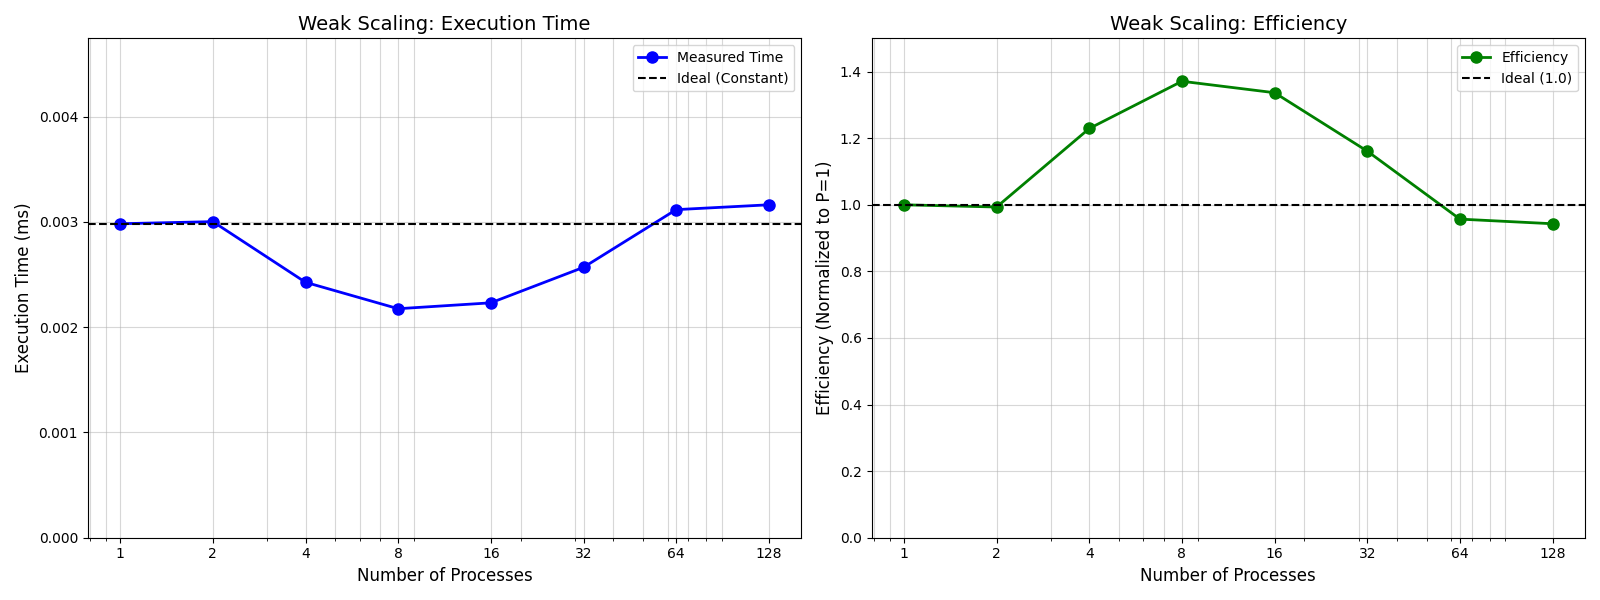
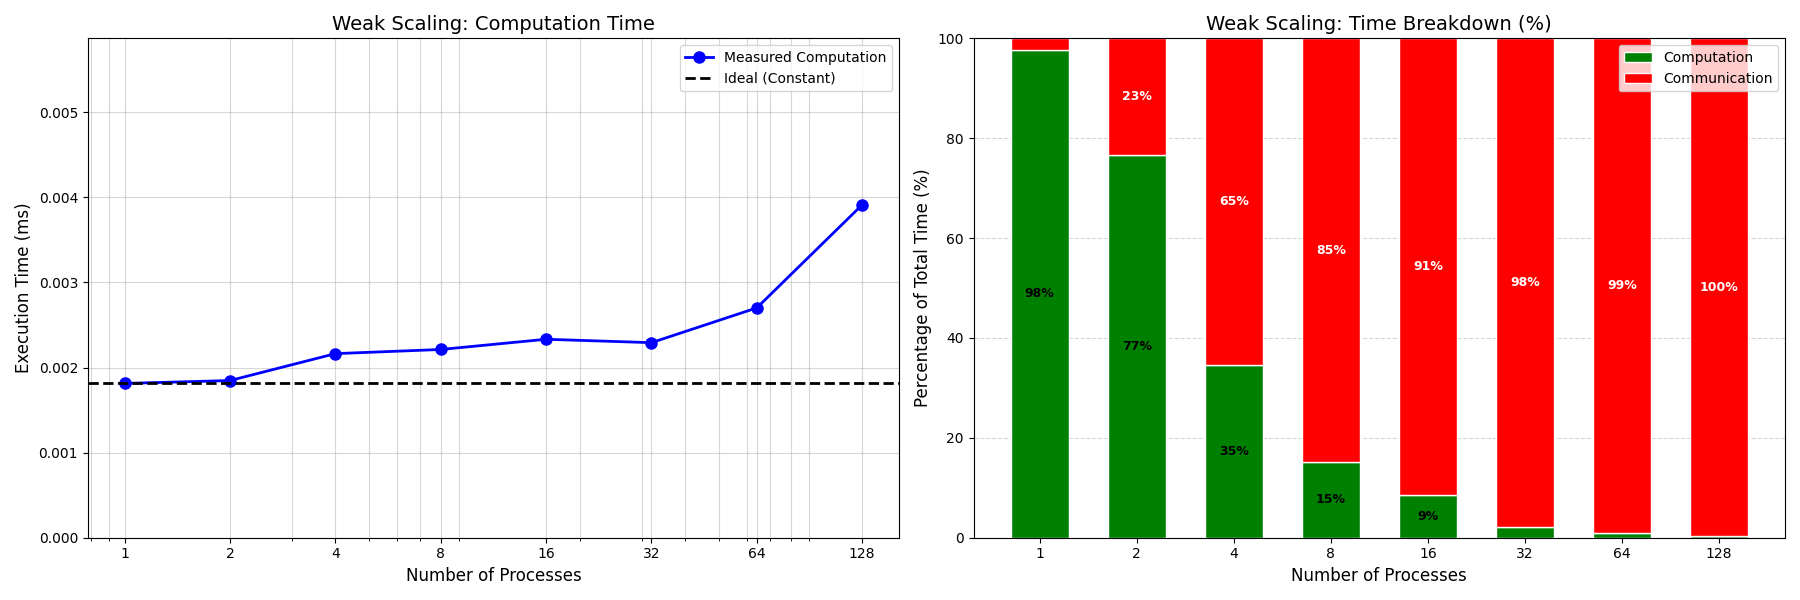
Modified scripts

diff --git a/D2/scripts/plots_weak_scaling.py b/D2/scripts/plots_weak_scaling.py
@@ -1,9 +1,8 @@
-#  python3 .\D2\scripts\plots_weak_scaling.py
-
 import pandas as pd
 import matplotlib.pyplot as plt
 import os
-import matplotlib.ticker as ticker 
+import matplotlib.ticker as ticker
+import numpy as np
 
 script_dir = os.path.dirname(os.path.abspath(__file__))
 parent_dir = os.path.dirname(script_dir)
@@ -30,46 +29,118 @@ except Exception as e:
 
 df.columns = df.columns.str.strip()
 df['Processes'] = pd.to_numeric(df['Processes'], errors='coerce')
-df['Time'] = pd.to_numeric(df['Time'], errors='coerce')
+df['T_Comp'] = pd.to_numeric(df['T_Comp'], errors='coerce')
+df['T_Comm'] = pd.to_numeric(df['T_Comm'], errors='coerce')
+
 df = df.dropna().sort_values('Processes')
 
-t1 = df[df['Processes'] == 1]['Time'].values[0]
-df['Efficiency'] = t1 / df['Time']
+df['Total'] = df['T_Comp'] + df['T_Comm']
+df['Pct_Comp'] = (df['T_Comp'] / df['Total']) * 100
+df['Pct_Comm'] = (df['T_Comm'] / df['Total']) * 100
 
-fig, (ax1, ax2) = plt.subplots(1, 2, figsize=(16, 6))
+t1_comp = df[df['Processes'] == 1]['T_Comp'].values[0]
+
+fig, (ax1, ax2) = plt.subplots(1, 2, figsize=(18, 6))
 
 ticks_x = [1, 2, 4, 8, 16, 32, 64, 128]
 
-ax1.plot(df['Processes'], df['Time'], 'bo-', linewidth=2, markersize=8, label='Measured Time')
-ax1.axhline(y=t1, color='k', linestyle='--', label='Ideal (Constant)')
+ax1.plot(
+    df['Processes'],
+    df['T_Comp'],
+    'bo-',
+    linewidth=2,
+    markersize=8,
+    label='Measured Computation'
+)
 
-ax1.set_title('Weak Scaling: Execution Time', fontsize=14)
+ax1.axhline(
+    y=t1_comp,
+    color='k',
+    linestyle='--',
+    linewidth=2,
+    label='Ideal (Constant)'
+)
+
+ax1.set_title('Weak Scaling: Computation Time', fontsize=14)
 ax1.set_xlabel('Number of Processes', fontsize=12)
 ax1.set_ylabel('Execution Time (ms)', fontsize=12)
+
 ax1.set_xscale('log')
 ax1.set_xticks(ticks_x)
 ax1.set_xticklabels(ticks_x)
-max_time = df['Time'].max()
-ax1.set_ylim(0, max_time * 1.5)
 ax1.get_xaxis().set_major_formatter(ticker.ScalarFormatter())
+
+ax1.set_ylim(0, df['T_Comp'].max() * 1.5)
+ax1.get_yaxis().set_major_formatter(ticker.ScalarFormatter())
+
 ax1.grid(True, which="both", ls="-", alpha=0.5)
 ax1.legend()
 
-ax2.plot(df['Processes'], df['Efficiency'], 'go-', linewidth=2, markersize=8, label='Efficiency')
-ax2.axhline(y=1.0, color='k', linestyle='--', label='Ideal (1.0)')
+procs = df['Processes'].astype(str).values
+x_pos = np.arange(len(procs))
 
-ax2.set_title('Weak Scaling: Efficiency', fontsize=14)
+ax2.bar(
+    x_pos,
+    df['Pct_Comp'].values,
+    color='green',
+    label='Computation',
+    edgecolor='white',
+    width=0.6
+)
+
+ax2.bar(
+    x_pos,
+    df['Pct_Comm'].values,
+    bottom=df['Pct_Comp'].values,
+    color='red',
+    label='Communication',
+    edgecolor='white',
+    width=0.6
+)
+
+ax2.set_title('Weak Scaling: Time Breakdown (%)', fontsize=14)
 ax2.set_xlabel('Number of Processes', fontsize=12)
-ax2.set_ylabel('Efficiency (Normalized to P=1)', fontsize=12)
-ax2.set_xscale('log')
-ax2.set_xticks(ticks_x)
-ax2.set_xticklabels(ticks_x)
-ax2.get_xaxis().set_major_formatter(ticker.ScalarFormatter())
-ax2.set_ylim(0, max(1.5, df['Efficiency'].max() + 0.1))
-ax2.grid(True, which="both", ls="-", alpha=0.5)
-ax2.legend()
+ax2.set_ylabel('Percentage of Total Time (%)', fontsize=12)
 
-out_path = os.path.join(OUTPUT_DIR, OUTPUT_FILE)
+ax2.set_xticks(x_pos)
+ax2.set_xticklabels(procs)
+
+ax2.set_ylim(0, 100)
+
+# Percentage labels
+for i in range(len(df)):
+    pct_comp = df['Pct_Comp'].values[i]
+    pct_comm = df['Pct_Comm'].values[i]
+
+    if pct_comp > 5:
+        ax2.text(
+            i,
+            pct_comp / 2,
+            f'{pct_comp:.0f}%',
+            ha='center',
+            va='center',
+            fontsize=9,
+            fontweight='bold',
+            color='black'
+        )
+
+    if pct_comm > 5:
+        ax2.text(
+            i,
+            pct_comp + pct_comm / 2,
+            f'{pct_comm:.0f}%',
+            ha='center',
+            va='center',
+            fontsize=9,
+            fontweight='bold',
+            color='white'
+        )
+
+ax2.legend(loc='upper right')
+ax2.grid(axis='y', linestyle='--', alpha=0.5)
+ax2.set_axisbelow(True)
+
 plt.tight_layout()
+out_path = os.path.join(OUTPUT_DIR, OUTPUT_FILE)
 plt.savefig(out_path)
 print(f"Successfully saved plot to {out_path}")

diff --git a/D2/scripts/plots_strong_scaling.py b/D2/scripts/plots_strong_scaling.py
@@ -1,16 +1,15 @@
-#  python3 .\D2\scripts\plots_strong_scaling.py
-
 import pandas as pd
 import matplotlib.pyplot as plt
 import os
 import matplotlib.ticker as ticker
+import numpy as np
 
 script_dir = os.path.dirname(os.path.abspath(__file__)) 
-parent_dir = os.path.dirname(script_dir)                
+parent_dir = os.path.dirname(script_dir) 
 
 INPUT_FILE = os.path.join(parent_dir, 'results', 'strong_scaling.csv') 
 OUTPUT_DIR = os.path.join(parent_dir, 'plots')
-OUTPUT_FILE = 'strong_scaling.png'
+OUTPUT_FILE = 'strong_scaling_combined.png'
 
 MATRIX_ORDER = [
     'venkat25.mtx',
@@ -36,8 +35,16 @@ except Exception as e:
 df.columns = df.columns.str.strip()
 df['Matrix'] = df['Matrix'].str.strip()
 df['Processes'] = pd.to_numeric(df['Processes'], errors='coerce')
-df['Time'] = pd.to_numeric(df['Time'], errors='coerce')
+df['T_Comm'] = pd.to_numeric(df['T_Comm'], errors='coerce')
+df['T_Comp'] = pd.to_numeric(df['T_Comp'], errors='coerce')
 df = df.dropna()
+
+df['Time'] = (df['T_Comm'] + df['T_Comp']) * 1000.0
+df['T_Comm'] = df['T_Comm'] * 1000.0
+df['T_Comp'] = df['T_Comp'] * 1000.0
+
+df['Pct_Comm'] = (df['T_Comm'] / df['Time']) * 100
+df['Pct_Comp'] = (df['T_Comp'] / df['Time']) * 100
 
 df['Speedup'] = 0.0
 for mat in df['Matrix'].unique():
@@ -49,20 +56,18 @@ for mat in df['Matrix'].unique():
         mask = df['Matrix'] == mat
         df.loc[mask, 'Speedup'] = t1 / df.loc[mask, 'Time']
 
-fig, (ax1, ax2) = plt.subplots(1, 2, figsize=(16, 6))
+fig, (ax1, ax2, ax3) = plt.subplots(1, 3, figsize=(24, 7))
 
 plotted_matrices = []
 for mat in MATRIX_ORDER:
     if mat in df['Matrix'].unique():
         subset = df[df['Matrix'] == mat].sort_values('Processes')
-        
         ax1.plot(subset['Processes'], subset['Time'], marker='o', label=mat)
-        
         ax2.plot(subset['Processes'], subset['Speedup'], marker='o', label=mat)
-        
         plotted_matrices.append(mat)
 
 ticks_x = [1, 2, 4, 8, 16, 32, 64, 128]
+
 ax1.set_title('Strong Scaling: Execution Time', fontsize=14)
 ax1.set_xlabel('Number of Processes', fontsize=12)
 ax1.set_ylabel('Time (ms)', fontsize=12)  
@@ -85,6 +90,29 @@ ax2.set_xticks(ideal_x)
 ax2.set_xticklabels(ideal_x)
 ax2.grid(True, which="both", ls="-", alpha=0.5)
 ax2.legend(plotted_matrices + ['Ideal'], title="Matrices")
+
+processes = sorted(df['Processes'].unique())
+x_indices = np.arange(len(processes))
+bar_width = 0.15
+num_matrices = len(MATRIX_ORDER)
+
+for i, mat in enumerate(MATRIX_ORDER):
+    if mat in df['Matrix'].unique():
+        subset = df[df['Matrix'] == mat].sort_values('Processes')
+        
+        offset = (i - num_matrices / 2) * bar_width + bar_width / 2
+        
+        ax3.bar(x_indices + offset, subset['Pct_Comp'], width=bar_width, color='orange', edgecolor='white', label='Computation' if i == 0 else "")
+        ax3.bar(x_indices + offset, subset['Pct_Comm'], bottom=subset['Pct_Comp'], width=bar_width, color='blue', edgecolor='white', label='Communication' if i == 0 else "")
+
+ax3.set_title('Computation vs Communication (%)', fontsize=14)
+ax3.set_xlabel('Number of Processes', fontsize=12)
+ax3.set_ylabel('Percentage of Total Time (%)', fontsize=12)
+ax3.set_xticks(x_indices)
+ax3.set_xticklabels(processes)
+ax3.set_ylim(0, 100)
+ax3.grid(axis='y', linestyle='--', alpha=0.5)
+ax3.legend(loc='lower left', title="Breakdown")
 
 out_path = os.path.join(OUTPUT_DIR, OUTPUT_FILE)
 plt.tight_layout()
